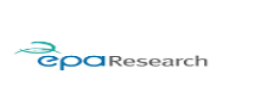
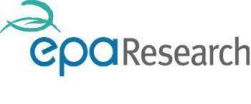
errors removed, alignment fixed

Changed region(s): [[0.0558, 0.3462, 1.0, 0.75], [0.0, 0.0, 0.251, 0.3173]]

diff --git a/research.html b/research.html
@@ -3,7 +3,7 @@
 
     <head>
         <meta charset="utf-8" />
-        <meta name="viewport" content="width=device-width, initial-scale=1, shrink-to-fit=yes" />
+        <meta name="viewport" content="width=device-width, initial-scale=1, shrink-to-fit=no" />
         <meta name="description" content="" />
         <meta name="author" content="" />
         <title>Eir-Flux Research</title>
@@ -19,84 +19,78 @@
         <link href="css/styles.css" rel="stylesheet" />
     </head>
 
-    <nav class="navbar navbar-expand-lg navbar-dark bg-primary">
-      <a class="navbar-brand" href="index.html">
-          <img src="assets/img/Eir-flux-logo.png" class="img-logo">
-      </a>
-      <button class="navbar-toggler" type="button" data-toggle="collapse" data-target="#navbarNavAltMarkup" aria-controls="navbarNavAltMarkup" aria-expanded="false" aria-label="Toggle navigation">
-        <span class="navbar-toggler-icon"></span>
-      </button>
 
-      <div class="collapse navbar-collapse" id="navbarNavAltMarkup">
-        <div class="navbar-nav">
-          <a class="nav-item nav-link active" href="index.html">Home <span class="sr-only">(current)</span></a>
-        </div>
-      </div>
+  <body id="page-top">
+      <!-- Navigation-->
+      <a class="menu-toggle rounded" href="#"><i class="fas fa-bars"></i></a>
+      <nav id="sidebar-wrapper">
+          <ul class="sidebar-nav">
+              <li class="sidebar-nav-item"><a href="index.html">Home</a></li>
+              <li class="sidebar-nav-item"><a href="#publications">Publications</a></li>
+          </ul>
+      </nav>
     </nav>
 
-    <section class="content-section bg-light" id="publications">
+
+    <section class="content-section bg-white" id="publications">
 
       <div class="container">
         <div class="content-section-heading">
-            <h2 class="mb-5"><u>Related Publications</h2>
+            <h2 class="mb-5"><u>Related Publications</u></h2>
+        </div>
+      <div class="container">
+        <div class="row">
+          <div class="col-sm-8">
+
+            <a href="https://gmd.copernicus.org/articles/15/2239/2022/">
+            <h5>GOBLIN version 1.0: a land balance model to identify national agriculture and land use pathways to climate neutrality via backcasting</h5>
+            </a>
+
+            <br>
+            <h6>Abstract</h6>
+
+            <p>
+              The Paris Agreement commits 197 countries to achieve climate stabilisation at a global average surface temperature less than 2 ∘C above pre-industrial times using nationally determined contributions (NDCs) to demonstrate progress. Numerous industrialised economies have targets to achieve territorial climate neutrality by 2050, primarily in the form of “net zero” greenhouse gas (GHG) emissions. However, particular uncertainty remains over the role of countries' agriculture, forestry, and other land use (AFOLU) sectors for reasons including the potential trade-offs between GHG mitigation and food security, a non-zero emission target for methane as a short-lived GHG, and the requirement for AFOLU to act as a net sink to offset residual emissions from other sectors. These issues are represented at a coarse level in integrated assessment models (IAMs) that indicate the role of AFOLU in global pathways towards climate stabilisation. However, there is an urgent need to determine appropriate AFOLU management strategies at a national level within NDCs. Here, we present a new model designed to evaluate detailed AFOLU scenarios at national scale using the example of Ireland, where approximately 40 % of national GHG emissions originate from AFOLU. GOBLIN (General Overview for a Backcasting approach of Livestock INtensification) is designed to run randomised scenarios of agricultural activities and land use combinations within biophysical constraints (e.g. available land area, livestock productivities, fertiliser-driven grass yields, and forest growth rates). Using AFOLU emission factors from national GHG inventory reporting, GOBLIN calculates annual GHG emissions out to the selected target year for each scenario (2050 in this case). The long-term dynamics of forestry are represented up to 2120 so that scenarios can also be evaluated against the Paris Agreement commitment to achieve a balance between emissions and removals over the second half of the 21st century. Filtering randomised scenarios according to compliance with specific biophysical definitions (GHG time series) of climate neutrality will provide scientific boundaries for appropriate long-term actions within NDCs. We outline the rationale and methodology behind the development of GOBLIN, with an emphasis on biophysical linkages across food production, GHG emissions, and carbon sinks at a national level. We then demonstrate how GOBLIN can be applied to evaluate different scenarios in relation to a few possible simple definitions of “climate neutrality”, discussing opportunities and limitations.
+            </p>
+
+            <p><h6>How to cite: </h6>Duffy, C., Prudhomme, R., Duffy, B., Gibbons, J., O'Donoghue, C., Ryan, M., and Styles, D.: GOBLIN version 1.0: a land balance model to identify national agriculture and land use pathways to climate neutrality via backcasting, Geosci. Model Dev., 15, 2239–2264, https://doi.org/10.5194/gmd-15-2239-2022, 2022.</p>
+
+          </div>
+          <div class="col-sm-4">
+
+            <img src="assets/img/figure1.png">
+            <p><h6>Figure: </h6>Key emission sources and sinks critical to the determination of “climate neutrality” in Ireland's AFOLU sector accounted for in GOBLIN (white), alongside linked upstream and downstream sources and sinks to be included in subsequent life cycle assessment (LCA) modelling to determine wider climate mitigation efficacy.</p>
+          </div>
+
         </div>
 
-        <ul class="list-inline mb-5">
-          <li class="list-inline-item">
-            <div class="row">
-              <div class="col-sm-8">
+        <div class="row">
+          <div class="col-sm-8">
 
-                <a href="https://gmd.copernicus.org/articles/15/2239/2022/">
-                <h5>GOBLIN version 1.0: a land balance model to identify national agriculture and land use pathways to climate neutrality via backcasting</h5>
-                </a>
+            <a href="https://www.sciencedirect.com/science/article/pii/S0301479720304576">
+            <h5>Afforestation: Replacing livestock emissions with carbon sequestration</h5>
+            </a>
 
-                <br>
-                <h6>Abstract</h6>
+            <br>
+            <h6>Abstract</h6>
 
-                <p>
-                  The Paris Agreement commits 197 countries to achieve climate stabilisation at a global average surface temperature less than 2 ∘C above pre-industrial times using nationally determined contributions (NDCs) to demonstrate progress. Numerous industrialised economies have targets to achieve territorial climate neutrality by 2050, primarily in the form of “net zero” greenhouse gas (GHG) emissions. However, particular uncertainty remains over the role of countries' agriculture, forestry, and other land use (AFOLU) sectors for reasons including the potential trade-offs between GHG mitigation and food security, a non-zero emission target for methane as a short-lived GHG, and the requirement for AFOLU to act as a net sink to offset residual emissions from other sectors. These issues are represented at a coarse level in integrated assessment models (IAMs) that indicate the role of AFOLU in global pathways towards climate stabilisation. However, there is an urgent need to determine appropriate AFOLU management strategies at a national level within NDCs. Here, we present a new model designed to evaluate detailed AFOLU scenarios at national scale using the example of Ireland, where approximately 40 % of national GHG emissions originate from AFOLU. GOBLIN (General Overview for a Backcasting approach of Livestock INtensification) is designed to run randomised scenarios of agricultural activities and land use combinations within biophysical constraints (e.g. available land area, livestock productivities, fertiliser-driven grass yields, and forest growth rates). Using AFOLU emission factors from national GHG inventory reporting, GOBLIN calculates annual GHG emissions out to the selected target year for each scenario (2050 in this case). The long-term dynamics of forestry are represented up to 2120 so that scenarios can also be evaluated against the Paris Agreement commitment to achieve a balance between emissions and removals over the second half of the 21st century. Filtering randomised scenarios according to compliance with specific biophysical definitions (GHG time series) of climate neutrality will provide scientific boundaries for appropriate long-term actions within NDCs. We outline the rationale and methodology behind the development of GOBLIN, with an emphasis on biophysical linkages across food production, GHG emissions, and carbon sinks at a national level. We then demonstrate how GOBLIN can be applied to evaluate different scenarios in relation to a few possible simple definitions of “climate neutrality”, discussing opportunities and limitations.
-                </p>
+            <p>
+              In Ireland, agriculture accounts for 33% of national greenhouse gas (GHG) emissions. Ireland faces significant challenges in terms of emissions reduction and is well off course in terms of meeting binding European Union targets. Flexibility mechanisms will allow Ireland to offset 5.6% of its commitment via sequestration in biomass and soils and land use change. Agricultural emissions in Ireland are largely driven by livestock production. As such, the purpose of this research is to estimate the net GHG emission benefit resulting from a land use change with forest replacing livestock systems (dairy, beef cattle and sheep). We estimate the total carbon sequestration in biomass and harvested wood products, along with the total emissions avoided from each livestock system on a per hectare basis. In addition, the paper compares the social cost of carbon to the average income per hectare of each livestock system. Finally, a hypothetical national planting scenario is modelled using plausible planting rates. Results indicate that the greatest carbon benefit is achieved when forest replaces dairy production. This is due to high emissions per hectare from dairy systems, and greater sequestration potential in higher-yielding forests planted on better quality soils associated with dairy production. The inclusion of harvested wood products in subsequent rotations has the potential to enhance GHG mitigation and offset terrestrial carbon loss. A hypothetical national planting scenario, afforesting 100,000 ha substituting dairy, beef cattle and sheep livestock systems could abate 13.91 Mt CO2e after 10 years, and 150.14 Mt CO2e (unthinned plantations) or 125.89 Mt CO2e (thinned plantations) over the course of the rotation. These results highlight the critical role for forest land use change in meeting the urgent need to tackle rising agricultural emissions.
+            </p>
 
-                <p><h6>How to cite: </h6>Duffy, C., Prudhomme, R., Duffy, B., Gibbons, J., O'Donoghue, C., Ryan, M., and Styles, D.: GOBLIN version 1.0: a land balance model to identify national agriculture and land use pathways to climate neutrality via backcasting, Geosci. Model Dev., 15, 2239–2264, https://doi.org/10.5194/gmd-15-2239-2022, 2022.</p>
+            <p><h6>How to cite: </h6>Duffy, C.,O'Donoghue, C.,Ryan, M., Styles, D., and Spillane,C.: Afforestation: Replacing livestock emissions with carbon sequestration,Journal of Environmental Management,Volume 264,2020,110523,ISSN 0301-4797,https://doi.org/10.1016/j.jenvman.2020.110523.</p>
 
-              </div>
-              <div class="col-sm-4">
+          </div>
+          <div class="col-sm-4">
 
-                <img src="assets/img/figure1.png">
-                <p><h6>Figure: </h6>Key emission sources and sinks critical to the determination of “climate neutrality” in Ireland's AFOLU sector accounted for in GOBLIN (white), alongside linked upstream and downstream sources and sinks to be included in subsequent life cycle assessment (LCA) modelling to determine wider climate mitigation efficacy.</p>
-              </div>
+            <img src="assets/img/figure2.png">
+            <p><h6>Figure: </h6>A schematic of the elements contributing to total CO2e abatement and loss. Solid lines represent CO2e abatement, while dotted lines represent CO2e losses.</p>
+          </div>
 
-            </div>
-          </li>
+        </div>
 
-          <li class="list-inline-item">
-            <div class="row">
-              <div class="col-sm-8">
-
-                <a href="https://www.sciencedirect.com/science/article/pii/S0301479720304576">
-                <h5>Afforestation: Replacing livestock emissions with carbon sequestration</h5>
-                </a>
-
-                <br>
-                <h6>Abstract</h6>
-
-                <p>
-                  In Ireland, agriculture accounts for 33% of national greenhouse gas (GHG) emissions. Ireland faces significant challenges in terms of emissions reduction and is well off course in terms of meeting binding European Union targets. Flexibility mechanisms will allow Ireland to offset 5.6% of its commitment via sequestration in biomass and soils and land use change. Agricultural emissions in Ireland are largely driven by livestock production. As such, the purpose of this research is to estimate the net GHG emission benefit resulting from a land use change with forest replacing livestock systems (dairy, beef cattle and sheep). We estimate the total carbon sequestration in biomass and harvested wood products, along with the total emissions avoided from each livestock system on a per hectare basis. In addition, the paper compares the social cost of carbon to the average income per hectare of each livestock system. Finally, a hypothetical national planting scenario is modelled using plausible planting rates. Results indicate that the greatest carbon benefit is achieved when forest replaces dairy production. This is due to high emissions per hectare from dairy systems, and greater sequestration potential in higher-yielding forests planted on better quality soils associated with dairy production. The inclusion of harvested wood products in subsequent rotations has the potential to enhance GHG mitigation and offset terrestrial carbon loss. A hypothetical national planting scenario, afforesting 100,000 ha substituting dairy, beef cattle and sheep livestock systems could abate 13.91 Mt CO2e after 10 years, and 150.14 Mt CO2e (unthinned plantations) or 125.89 Mt CO2e (thinned plantations) over the course of the rotation. These results highlight the critical role for forest land use change in meeting the urgent need to tackle rising agricultural emissions.
-                </p>
-
-                <p><h6>How to cite: </h6>Duffy, C.,O'Donoghue, C.,Ryan, M., Styles, D., and Spillane,C.: Afforestation: Replacing livestock emissions with carbon sequestration,Journal of Environmental Management,Volume 264,2020,110523,ISSN 0301-4797,https://doi.org/10.1016/j.jenvman.2020.110523.</p>
-
-              </div>
-              <div class="col-sm-4">
-
-                <img src="assets/img/figure2.png">
-                <p><h6>Figure: </h6>A schematic of the elements contributing to total CO2e abatement and loss. Solid lines represent CO2e abatement, while dotted lines represent CO2e losses.</p>
-              </div>
-
-            </div>
-          </li>
-
-      </ul>
-
+      </div>
 
       </section>
+      <script src="js/scripts.js"></script>
+    </body>

diff --git a/index.html b/index.html
@@ -51,12 +51,12 @@
                           Achieving Ireland’s climate and environmental objectives poses a significant challenge to policy makers, land managers and other stakeholders. Land-use pathways that achieve a sustainable “net-zero” goal will require significant land-use change. During the SeQUEsTER project, this was modelled at the national level, with a significant degree of aggregation. The results showed the scale of change necessary, however, it is important from an environmental, social, economic and cultural perspective that we understand what this change may look like at a much more localised level.
                           </p>
                         <p class="lead mb-5">
-                          The EIR-Flux project aims to identify a broad range of appropriate mitigation options at the catchment level and develop a detailed modelling approach utilising the GOBLIN framework developed in the SeQUEsTER project. The project will attempt to expand the portfolio of alternative and complementary land-uses modelled in GOBLIN. In addition, this project also examines mitigation from multiple environmental perspectives. In others words, EIR-Flux will attempt to find pathways towards sustainability that meet multiple objectives related to GHG, air and water quality.
+                          The EIR-Flux project aims to identify a broad range of appropriate mitigation options at the catchment level and develop a detailed modelling approach utilising the GOBLIN framework developed in the SeQUEsTER project. The project will attempt to expand the portfolio of alternative and complementary land-uses modelled in GOBLIN. In addition, this project also examines mitigation from multiple environmental perspectives. In other words, EIR-Flux will attempt to find pathways towards sustainability that meet multiple objectives related to GHG, air and water quality.
 
                         </p>
 
                         <p class="lead mb-5">
-                          Initial work will focus on subcatchments within the Blackwater catchment in the Munster region. As this project has just begun, data is still being gathered and stakeholders are being contacted.
+                          Initial work will focus on sub catchments within the Blackwater catchment in the Munster region. As this project has just begun, data is still being gathered and stakeholders are being contacted.
                           Once local stakeholder engagement has commenced, a series of stakeholder workshops will be held to assist in the modelling of feasible mitigation options and alternative land-use options.
 
                         </p>
@@ -92,7 +92,7 @@
                     <div class="col-lg-3 col-md-6">
                         <span class="service-icon rounded-circle mx-auto mb-3"><i class="icon-directions"></i></span>
                         <h4><strong>Produce</strong></h4>
-                        <p class="text-faded mb-0">Catchment level mitigation sceanrios inidcating feasible mitigation pathways for the AFOLU sector</p>
+                        <p class="text-faded mb-0">Catchment level mitigation scenarios indicating feasible mitigation pathways for the AFOLU sector </p>
                     </div>
                 </div>
             </div>
@@ -221,39 +221,56 @@
         </section>
 
 
+
         <!-- Partners-->
-        <section class="content-section" id="partners">
-          <div class="content-section-heading text-center">
-              <h2 class="mb-5">Our Partners</h2>
-          </div>
-            <div class="container px-4 px-lg-5">
-                <ul class="list-inline mb-5">
-                  <li class="list-inline-item">
-                    <a href="https://www.ul.ie/"/>
-                      <img class="img-fluid" src ="assets/img/UL.png"/>
+
+        <section class="team text-center py-5" id="partners">
+           <div class="container">
+             <div class="header my-5">
+               <h2>Our Partners</h2>
+
+             </div>
+             <div class="row">
+               <div class="col-md-6 col-lg-3">
+                 <div class="img-block mb-5">
+
+                   <a href="https://www.ul.ie/">
+
+                      <img src="assets/img/ul.png"  class="img-fluid  img-thumbnail">
+
+                  </a>
+                 </div>
+               </div>
+
+               <div class="col-md-6 col-lg-3">
+                 <div class="img-block mb-5">
+
+                   <a href="https://www.nuigalway.ie/">
+
+                      <img src="assets/img/nuig.png"  class="img-fluid  img-thumbnail">
+
                     </a>
-                  </li>
-                    <li class="list-inline-item">
-                        <a href="https://www.nuigalway.ie/">
-                        <img class="img-fluid" src ="assets/img/nuig.jpg"/>
-                        </a>
-                    </li>
-                    <li class="list-inline-item">
-                      <a href="https://www.hutton.ac.uk/"/>
-                        <img class="img-fluid" src ="assets/img/jhi.png">
-                      </a>
-                    </li>
+                 </div>
+              </div>
 
-                    <li class="list-inline-item">
-                        <a href="https://www.epa.ie/our-services/research/epa--research-funding/epa-research-call/"/>
-                          <img class="img-fluid" src ="assets/img/epa.png">
-                        </a>
-                    </li>
+              <div class="col-md-6 col-lg-3">
+                <div class="img-block mb-5">
+                  <a href="https://www.hutton.ac.uk//">
+                     <img src="assets/img/jhi.png"  class="img-fluid  img-thumbnail">
+                  </a>
+                </div>
+             </div>
 
-                </ul>
+             <div class="col-md-6 col-lg-3">
+               <div class="img-block mb-5">
+                 <a href="https://www.epa.ie/our-services/research/">
+                    <img src="assets/img/epa.png"  class="img-fluid  img-thumbnail">
+
+                </a>
+               </div>
             </div>
-        </section>
 
+         </section>
 
         <!-- Footer-->
         <footer class="footer text-center" id="contact">

diff --git a/datasources.html b/datasources.html
@@ -19,19 +19,18 @@
         <link href="css/styles.css" rel="stylesheet" />
     </head>
 
-    <nav class="navbar navbar-expand-lg navbar-dark bg-primary">
-      <a class="navbar-brand" href="index.html">
-          <img src="assets/img/Eir-flux-logo.png" class="img-logo">
-      </a>
+    <body id="page-top">
+        <!-- Navigation-->
+        <a class="menu-toggle rounded" href="#"><i class="fas fa-bars"></i></a>
+        <nav id="sidebar-wrapper">
+            <ul class="sidebar-nav">
+                <li class="sidebar-nav-item"><a href="index.html">Home</a></li>
+                <li class="sidebar-nav-item"><a href="#datasources">Data Sources</a></li>
+            </ul>
+        </nav>
+      </nav>
 
-      <div class="collapse navbar-collapse" id="navbarNavAltMarkup">
-        <div class="navbar-nav">
-          <a class="nav-item nav-link active" href="index.html">Home <span class="sr-only">(current)</span></a>
-        </div>
-      </div>
-    </nav>
-
-    <section class="content-section bg-light" id="publications">
+    <section class="content-section bg-light" id="datasources">
 
       <div class="container">
         <div class="content-section-heading">
@@ -107,3 +106,7 @@
       </div>
 
       </section>
+
+
+      <script src="js/scripts.js"></script>
+    </body>
